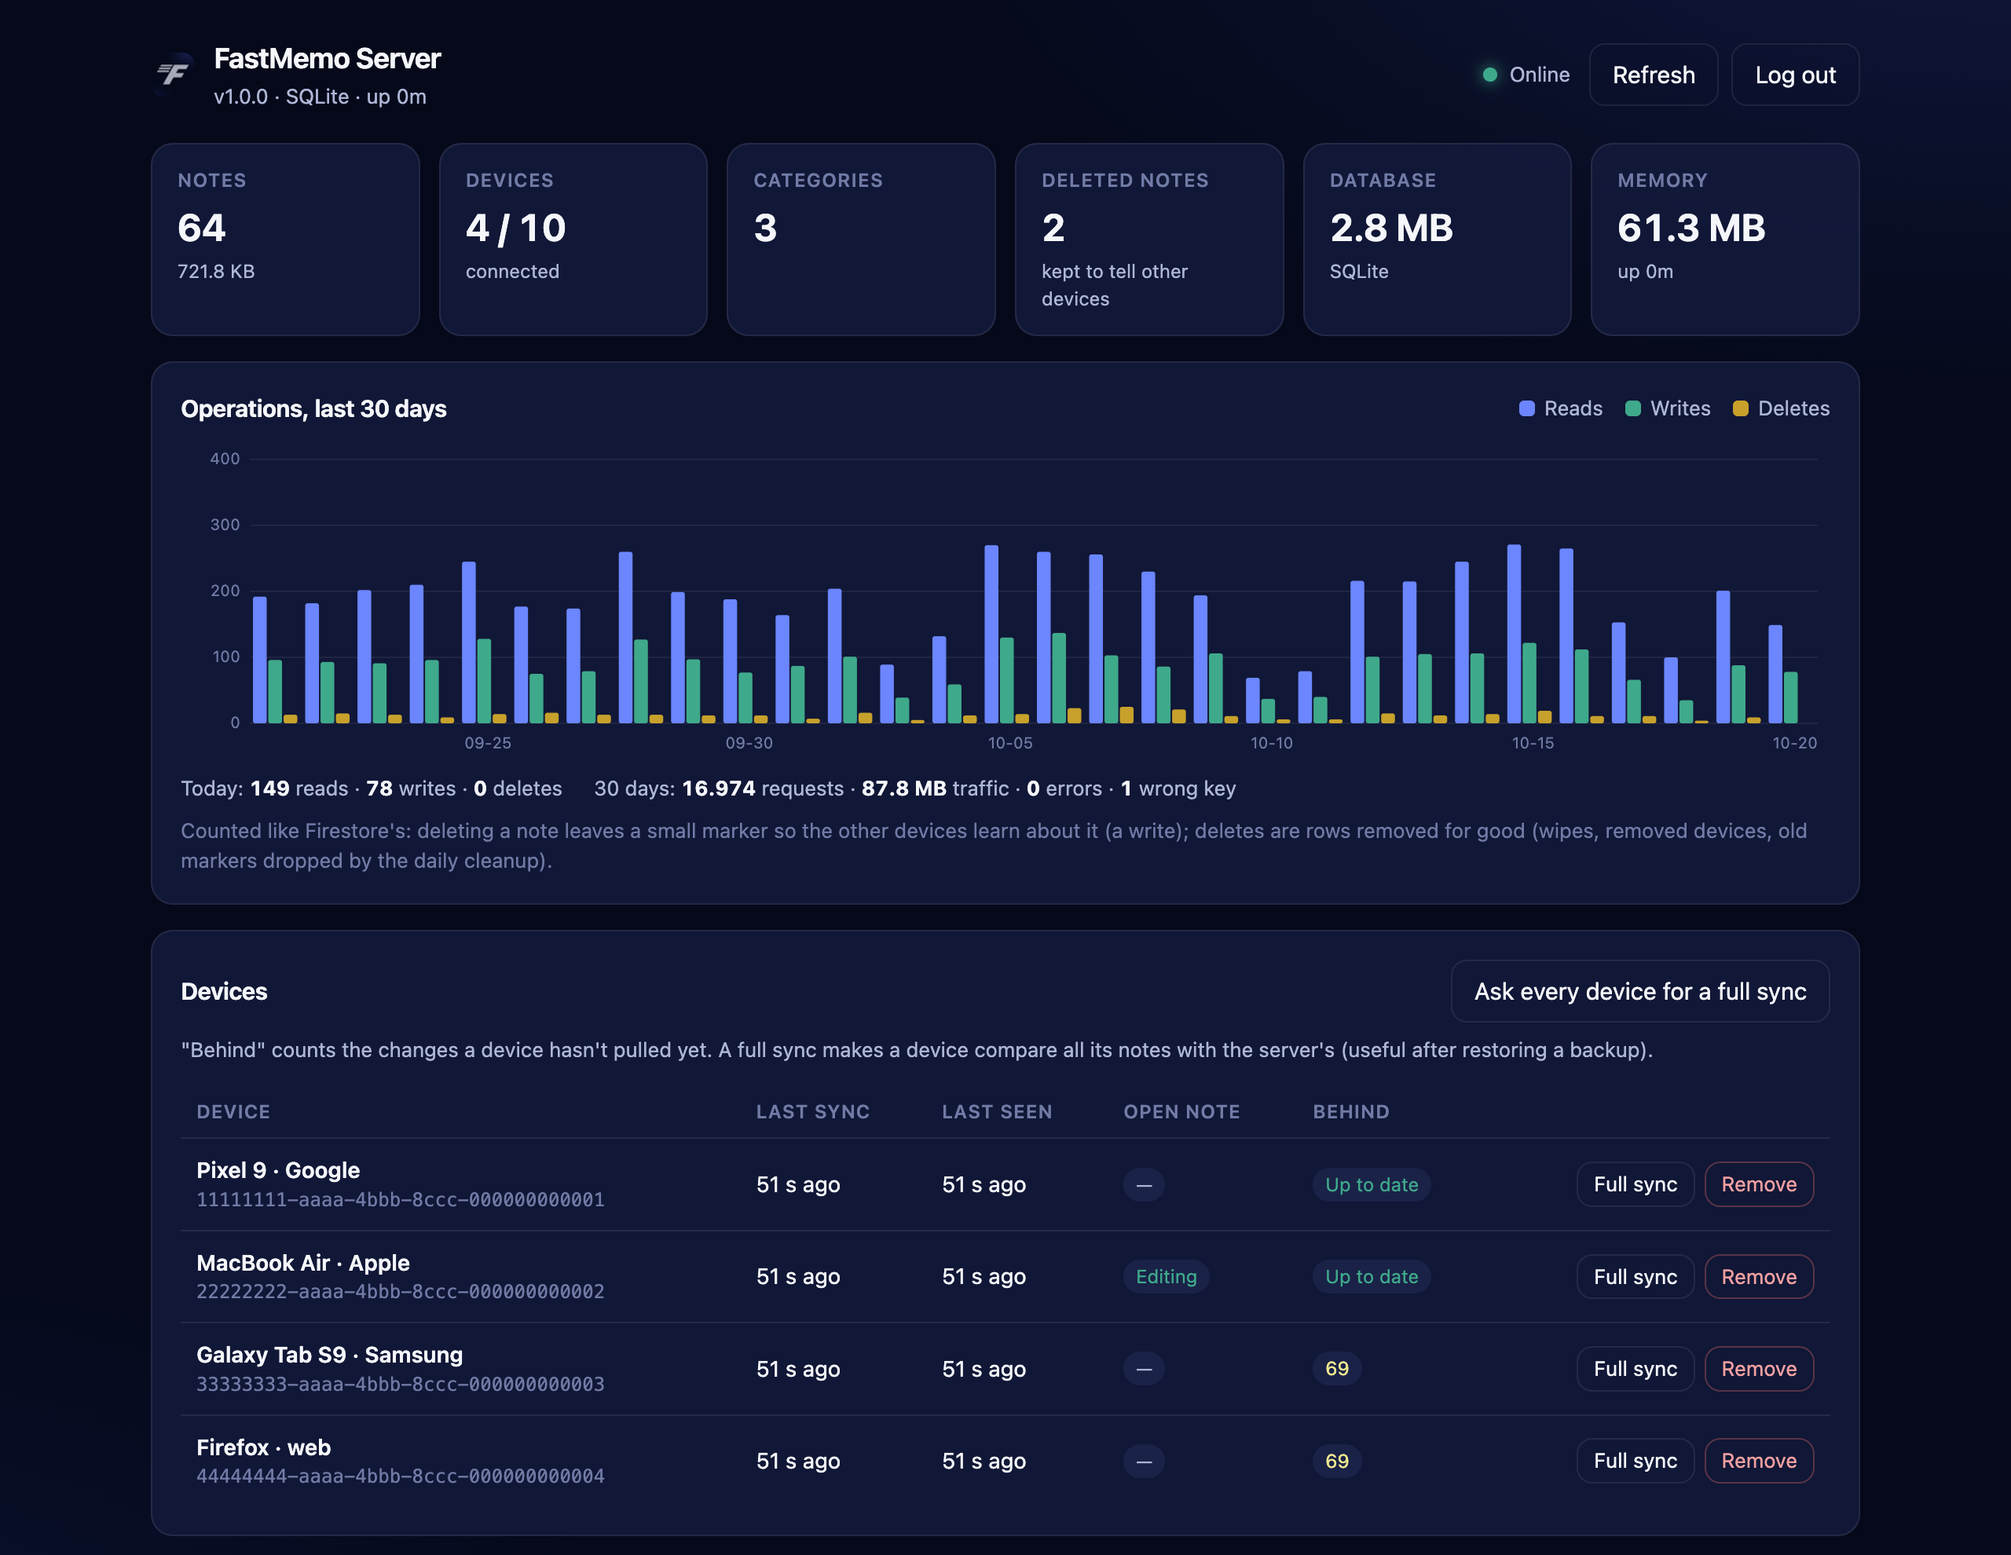
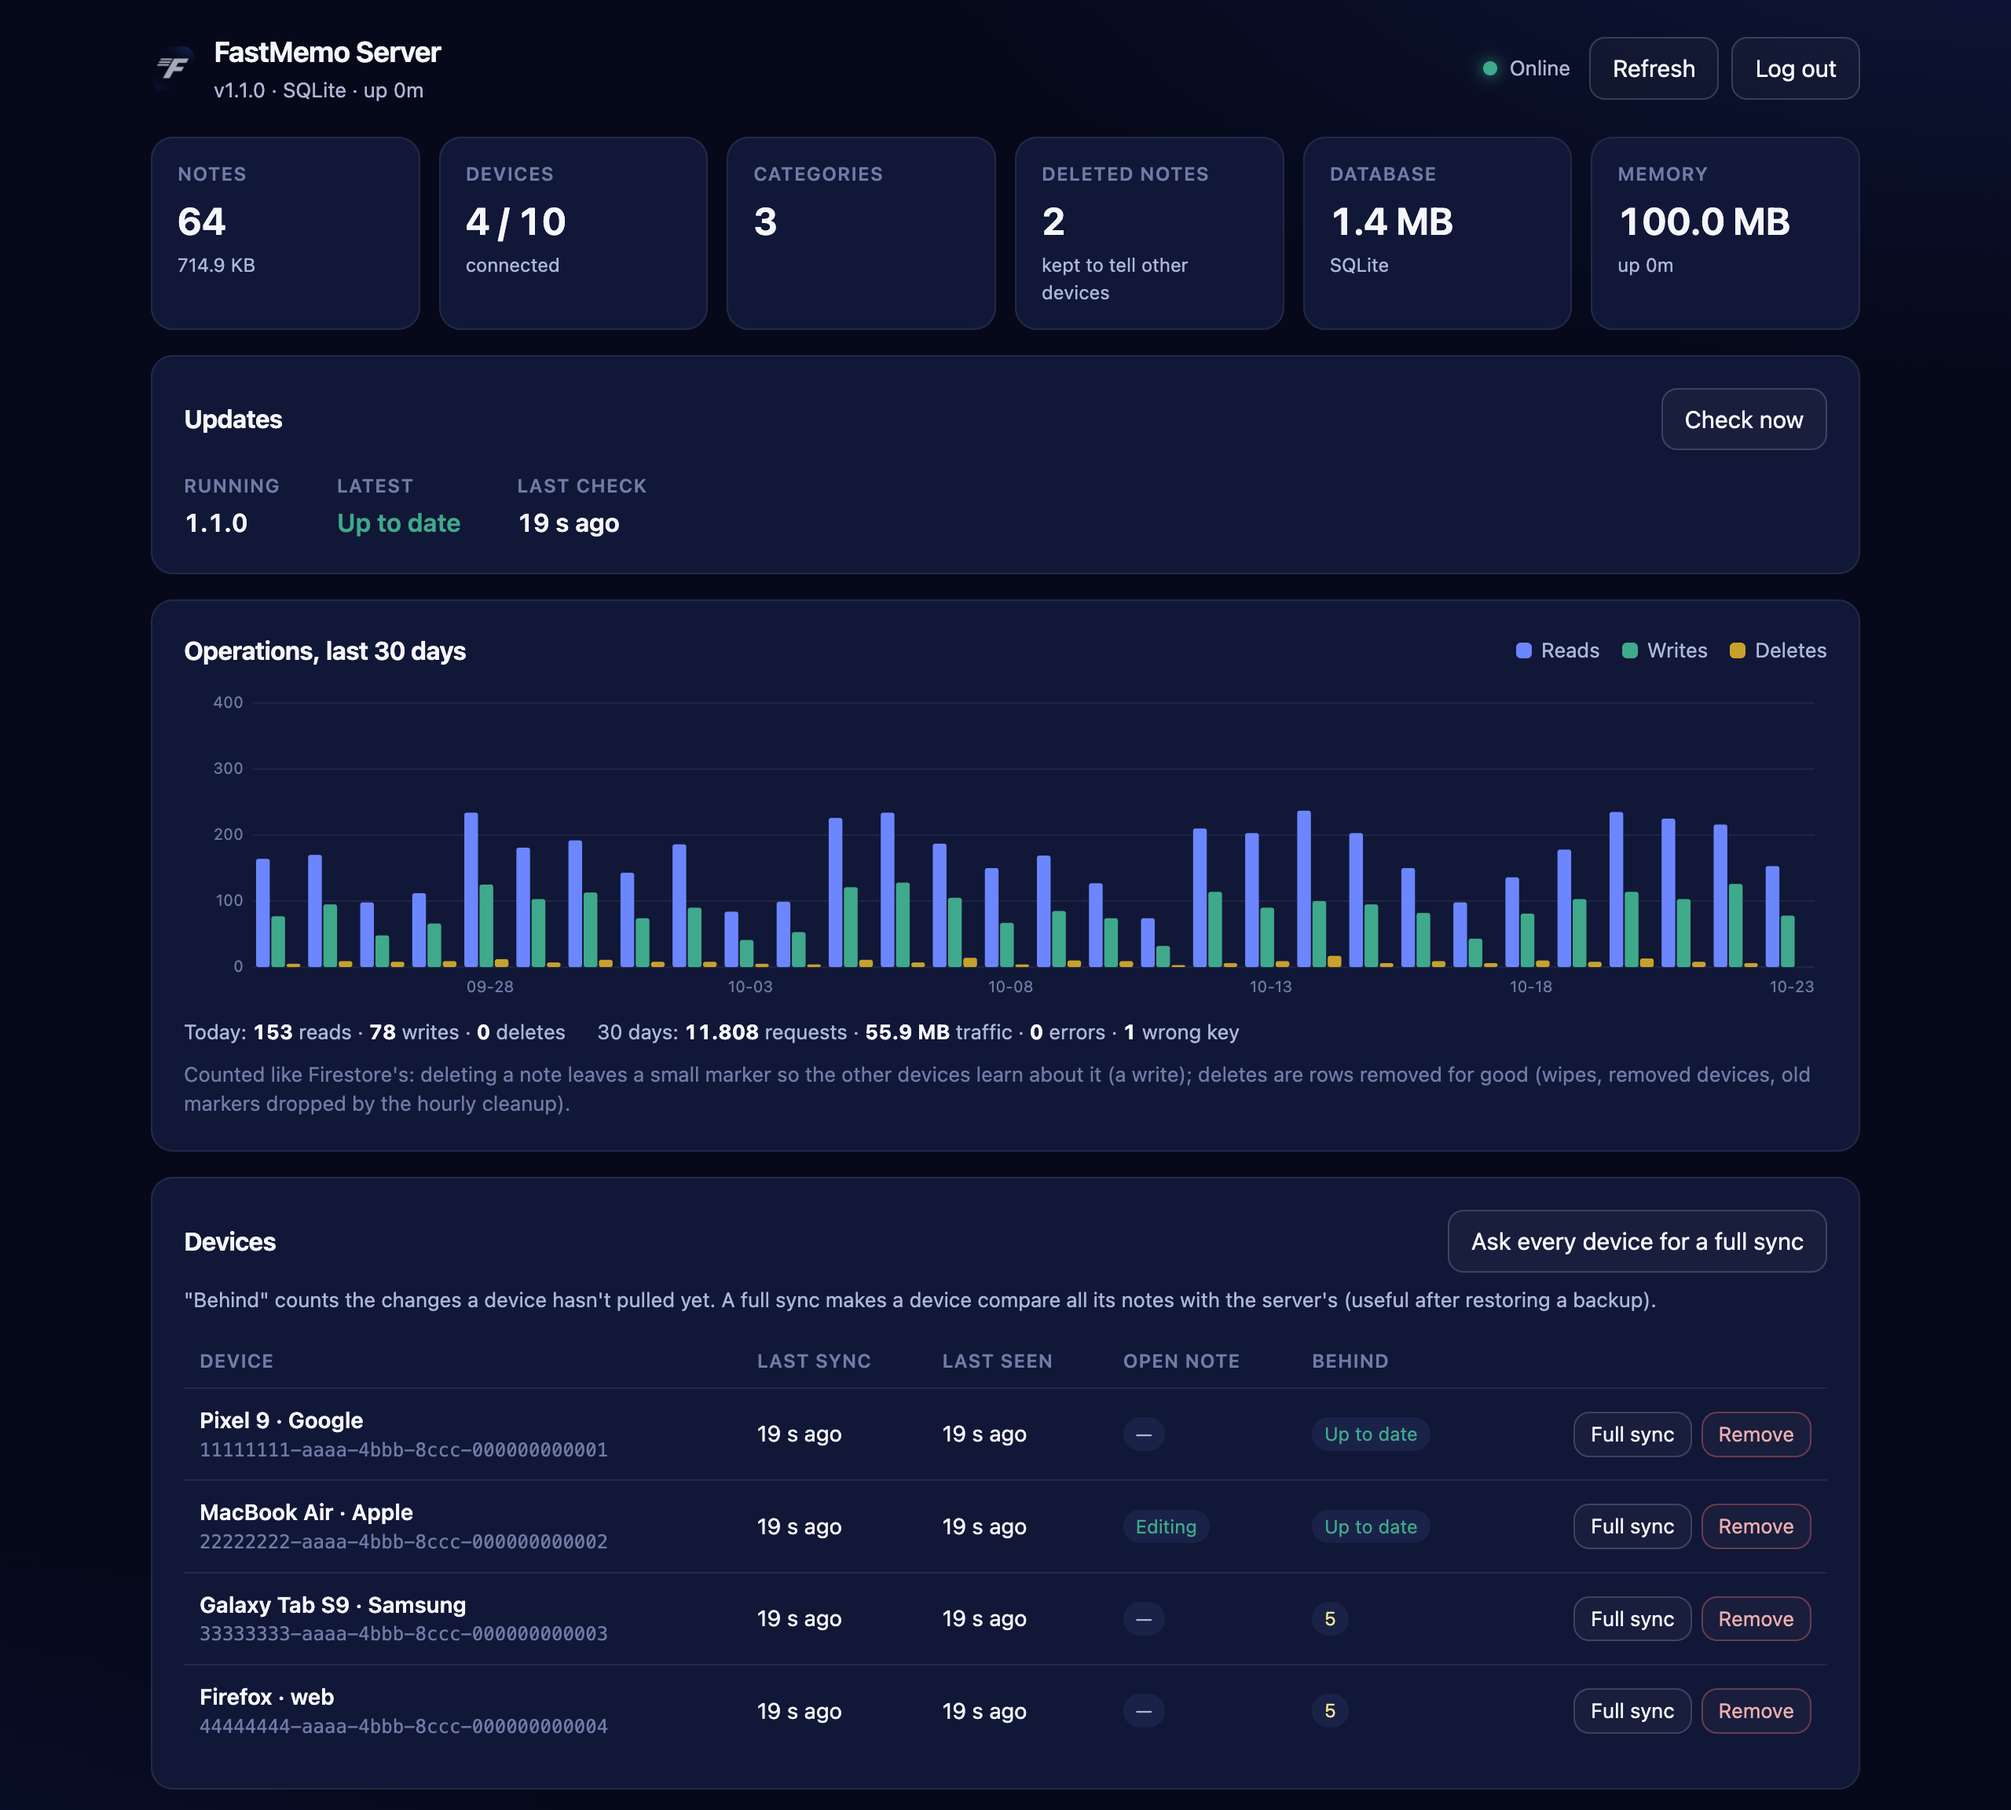
docs: README badges (CI, CodeQL, release, image, stack) and a 1.1.0 dashboard screenshot

diff --git a/README.md b/README.md
@@ -7,18 +7,26 @@
 **Your own sync server for FastMemo: end-to-end encrypted notes, live sync between your devices, and a dashboard. One Docker
 container.**
 
-![Docker](https://badgen.net/badge/Docker/amd64%20%C2%B7%20arm64/blue)
-![Database](https://badgen.net/badge/Database/SQLite%20%C2%B7%20PostgreSQL/blue)
-![Protocol](https://badgen.net/badge/Protocol/v1/blue) ![License](https://badgen.net/badge/License/AGPL-3.0/grey)
+[![CI](https://github.com/ontech7/fastmemo-server/actions/workflows/ci.yml/badge.svg?branch=main)](https://github.com/ontech7/fastmemo-server/actions/workflows/ci.yml)
+[![CodeQL](https://github.com/ontech7/fastmemo-server/actions/workflows/codeql.yml/badge.svg?branch=main)](https://github.com/ontech7/fastmemo-server/actions/workflows/codeql.yml)
+[![Release](https://img.shields.io/github/v/release/ontech7/fastmemo-server?label=release&color=4f6bed)](CHANGELOG.md)
+![Tests](https://img.shields.io/badge/tests-SQLite%20%7C%20PostgreSQL-brightgreen)
+![Provenance](https://img.shields.io/badge/releases-signed%20provenance-brightgreen) <br />
+![Node](https://img.shields.io/badge/node-%E2%89%A524-339933?logo=node.js&logoColor=white)
+![TypeScript](https://img.shields.io/badge/TypeScript-strict-3178C6?logo=typescript&logoColor=white)
+[![Image](https://img.shields.io/badge/ghcr.io-amd64%20%7C%20arm64-2496ED?logo=docker&logoColor=white)](https://github.com/ontech7/fastmemo-server/pkgs/container/fastmemo-server)
+![Database](https://img.shields.io/badge/database-SQLite%20%7C%20PostgreSQL-003B57?logo=sqlite&logoColor=white)
+![Protocol](https://img.shields.io/badge/protocol-v1-blue)
+[![License: AGPL-3.0](https://img.shields.io/badge/license-AGPL--3.0-blue)](LICENSE)
 
-[Quick start](#quick-start) | [Deployment guide](docs/DEPLOYMENT.md) | [Protocol](docs/PROTOCOL.md) |
-[Report Bug](https://github.com/ontech7/fastmemo-server/issues)
+[Quick start](#quick-start) · [Updates](#updates) · [Security](#security) · [Deployment guide](docs/DEPLOYMENT.md) ·
+[Protocol](docs/PROTOCOL.md) · [Changelog](CHANGELOG.md) · [Report Bug](https://github.com/ontech7/fastmemo-server/issues)
 
 ---
 
 If you find this project useful, consider [buying me a coffee](https://www.buymeacoffee.com/ontech7)! ☕
 
-<img width="1280" alt="The FastMemo Server dashboard: notes, devices, operations per day" src="docs/images/dashboard.png" />
+<img width="1280" alt="The FastMemo Server dashboard: notes, updates, operations per day, devices" src="docs/images/dashboard.png" />
 
 </div>
 
